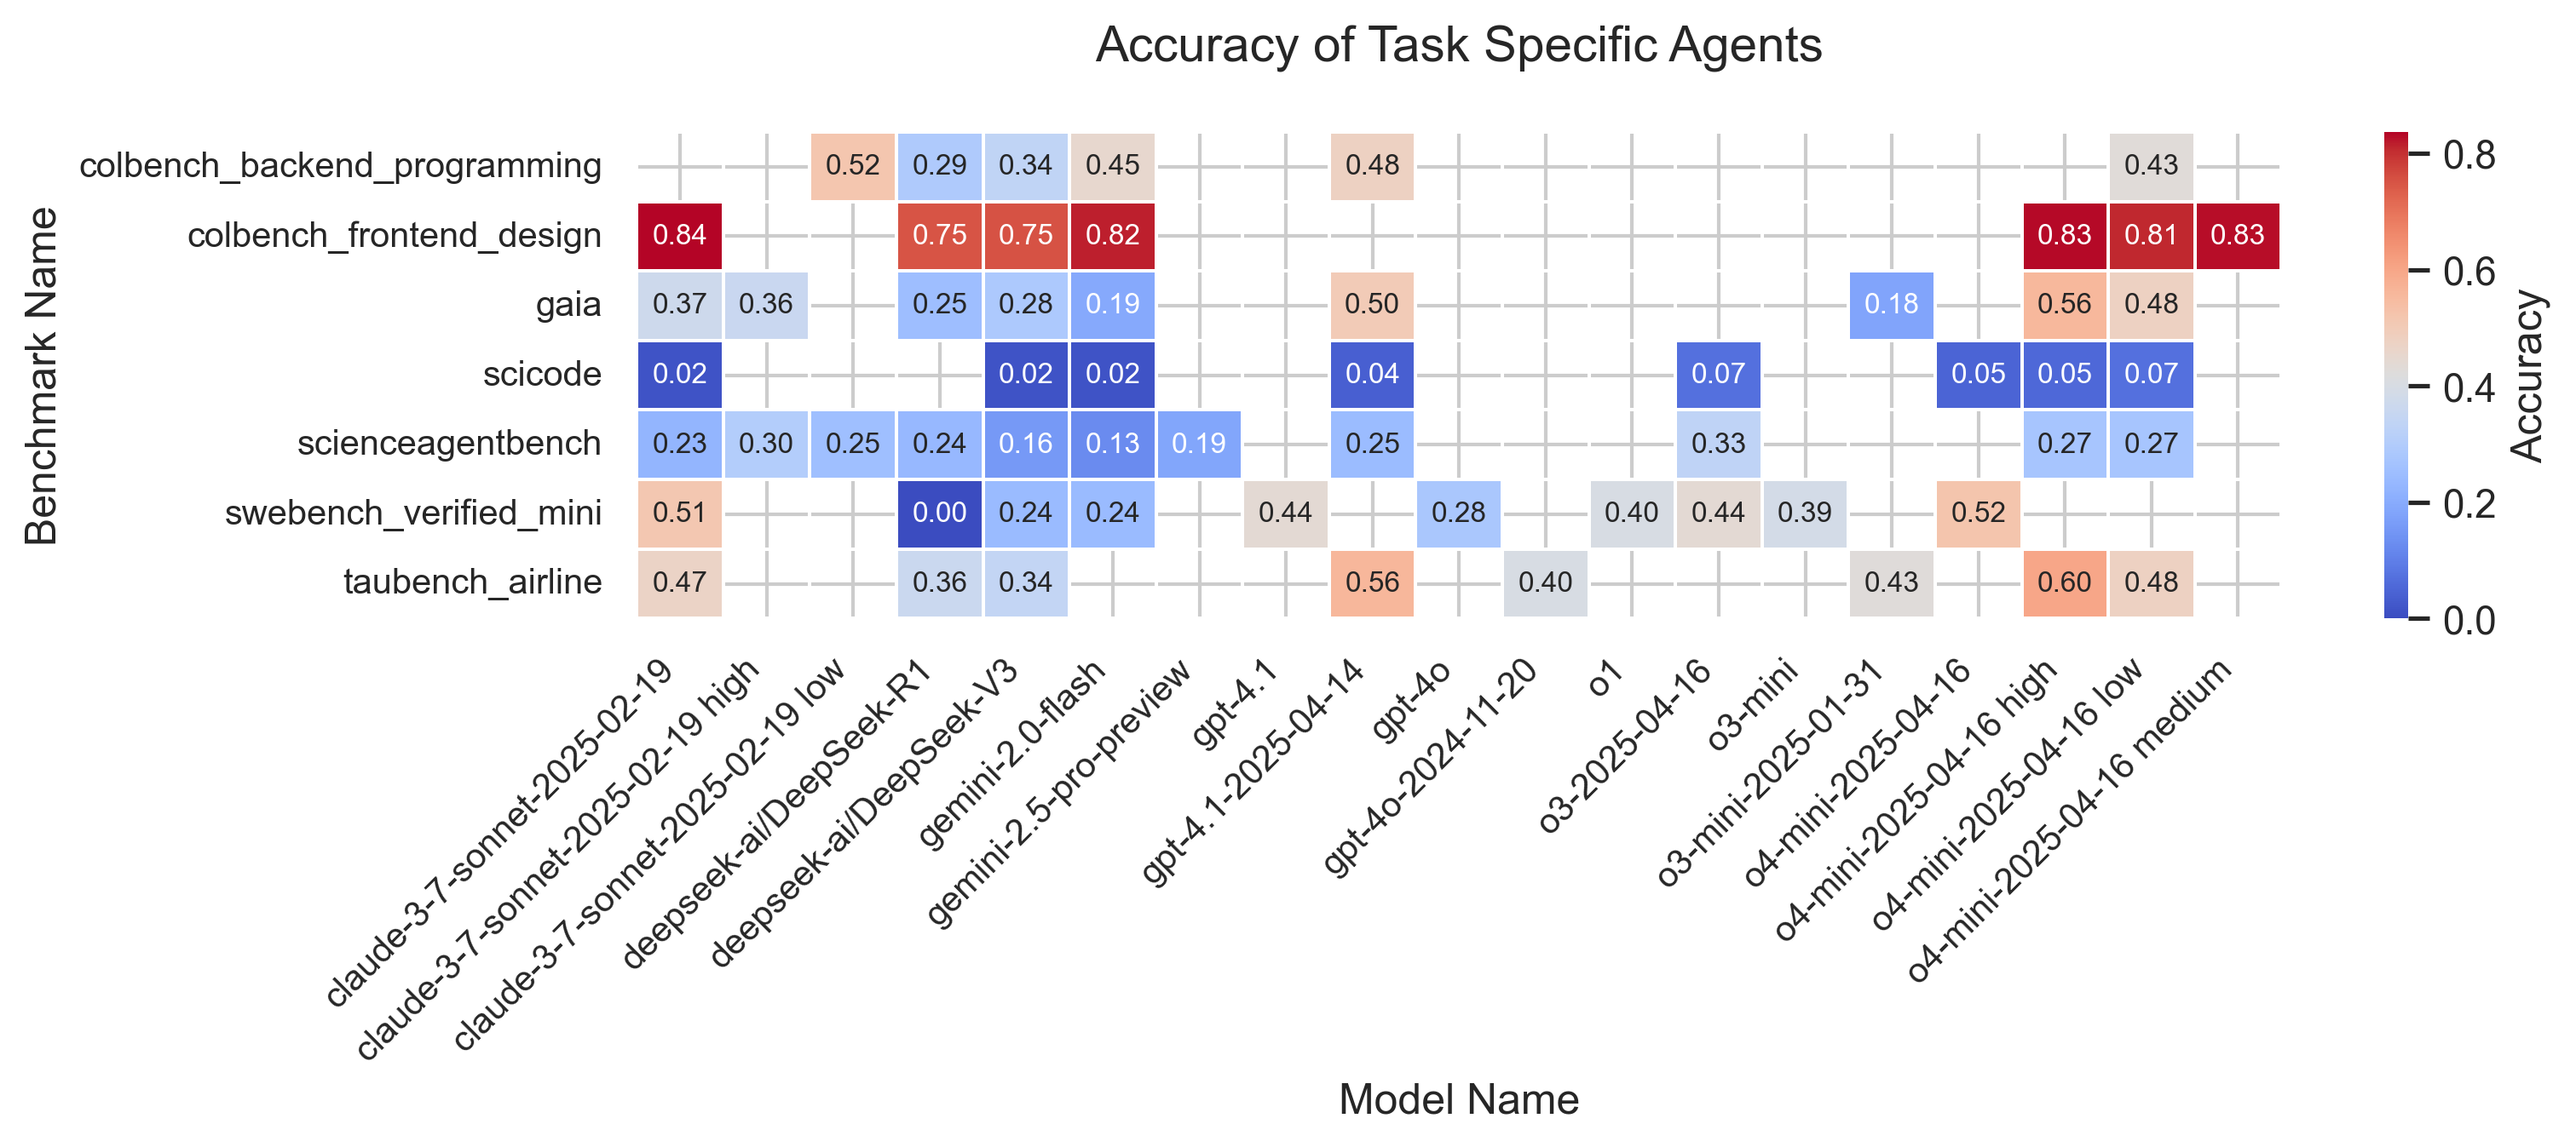
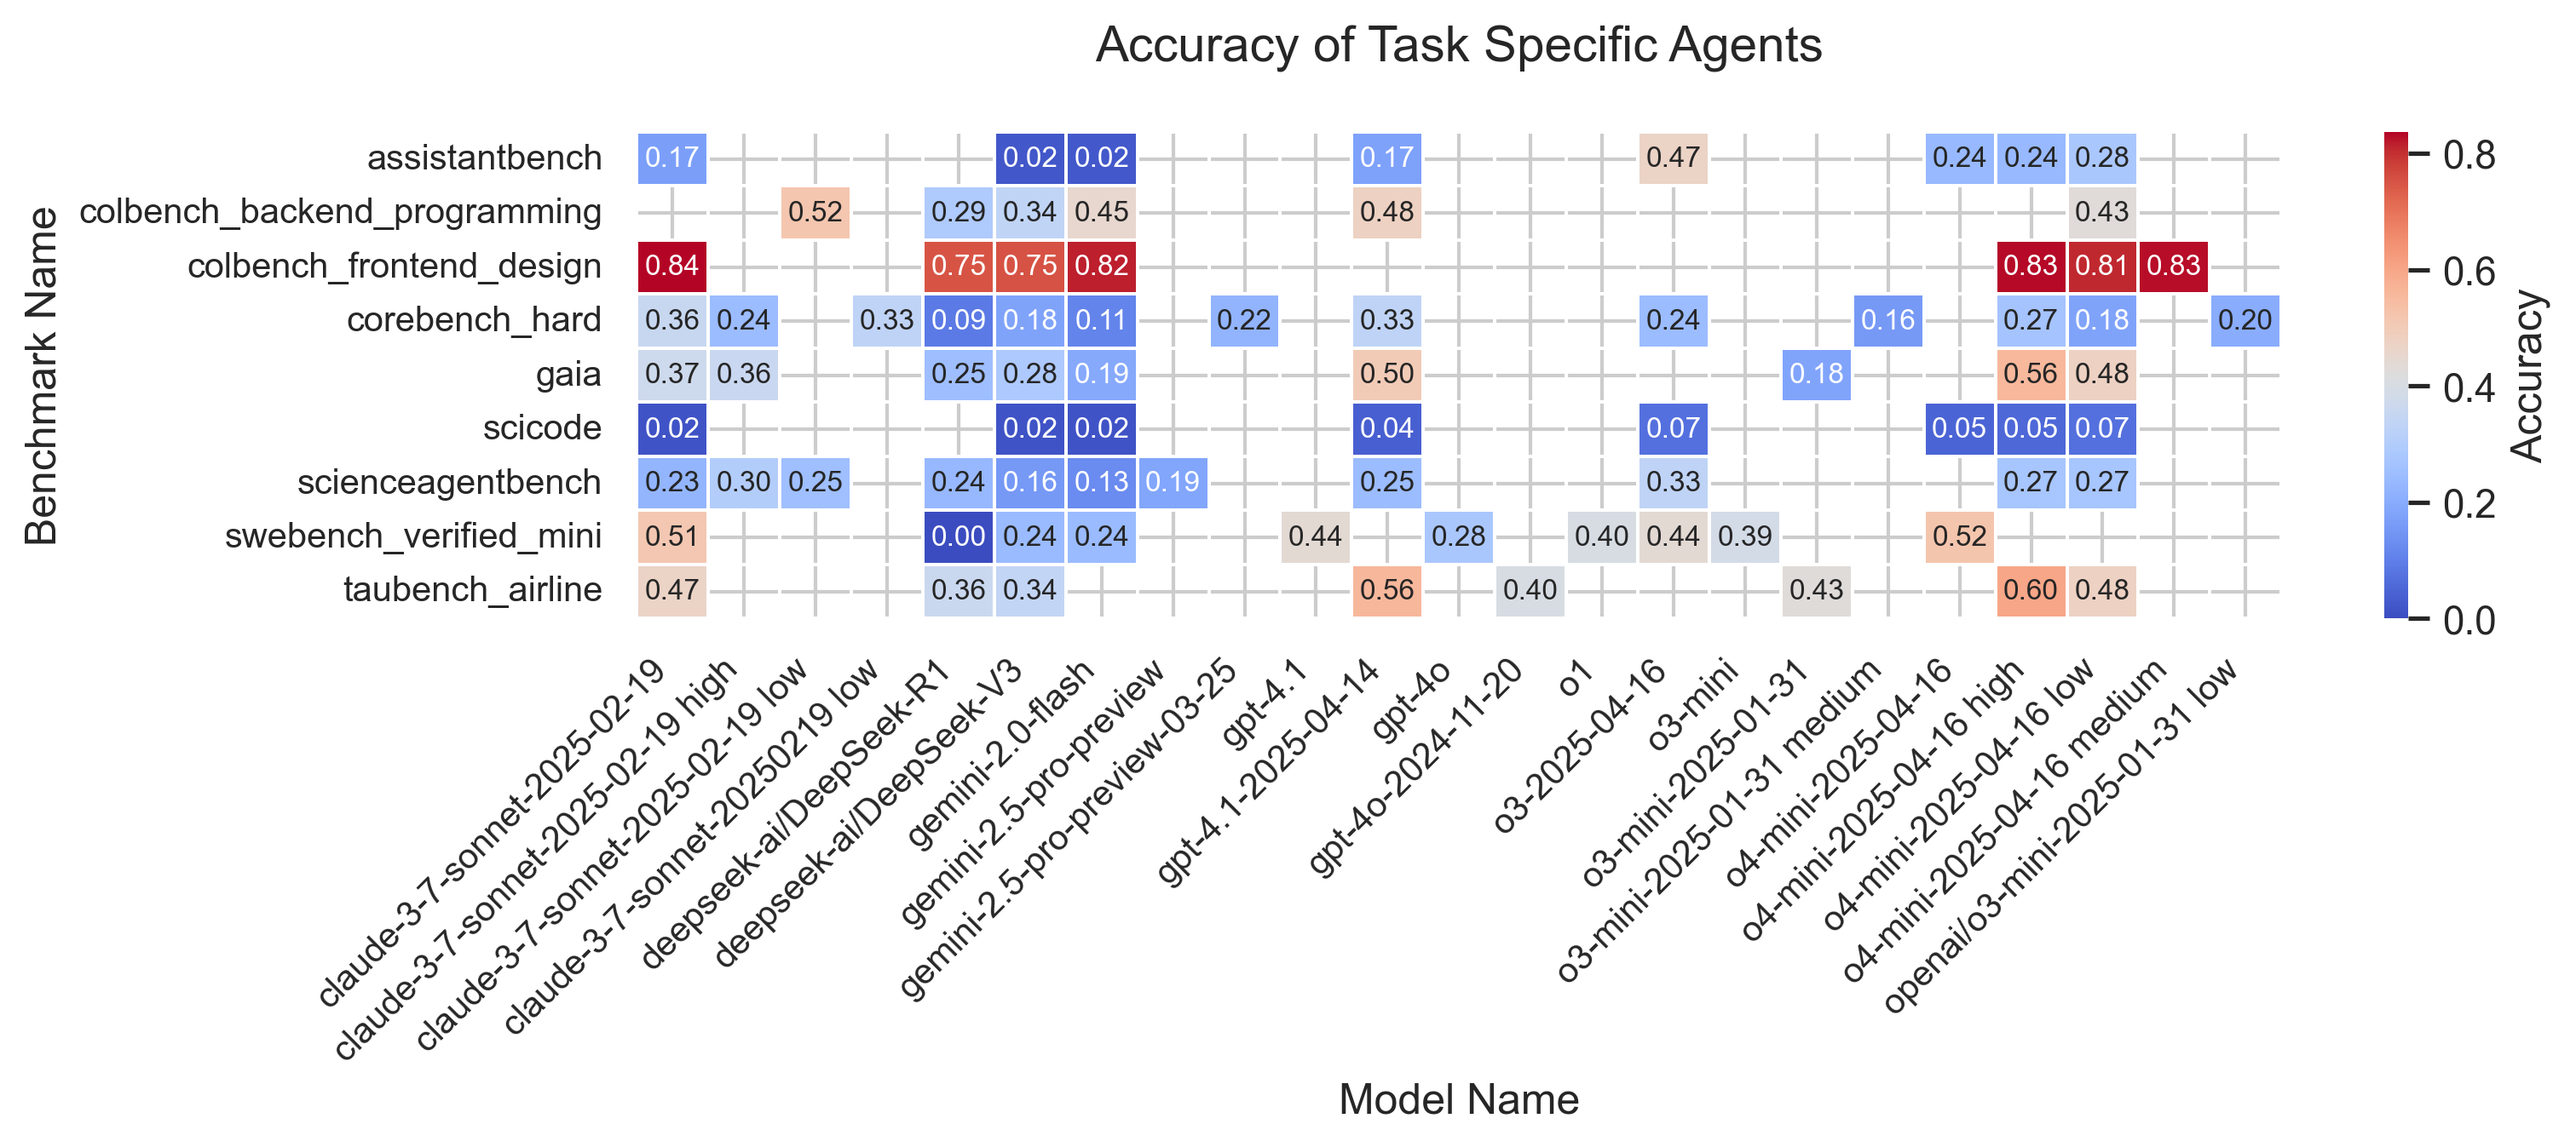
updating heatmaps

diff --git a/src/dataloaders/abstract.py b/src/dataloaders/abstract.py
@@ -42,15 +42,25 @@ class DataLoader(ABC):
         agent_name = self.config['agent_name']
         # print(agent_name)
         self.config['agent_name'] = AGENT_NAME_MAP.get(agent_name, agent_name)
-        if (agent_name != 'CORE-Agent') and (agent_name != 'coreagent'):
+        if (self.config['agent_name'] != 'CORE-Agent'):
             self.config['agent_name_short'] = self.config['agent_name'].split(' (')[-2]
         else:
             self.config['agent_name_short'] = self.config['agent_name']
 
-        model_name_short = (self.config['agent_name'].split(' (')[-1].split(')')[0])
-        self.config['model_name_short'] = MODEL_NAME_MAP.get(model_name_short, model_name_short)
-        # print(self.config['agent_name'], " | ", self.config['agent_name_short'], " | ", self.config['model_name_short'])
-
+        if (self.config['agent_name'] == 'CORE-Agent'):
+            model_name_short = self.config['agent_args']['model_name']
+            if 'reasoning_effort' in self.config['agent_args']:
+                reasoning_effort = self.config['agent_args']['reasoning_effort']
+                self.config['model_name_short'] = model_name_short + ' ' + reasoning_effort
+                model_name_short = self.config['model_name_short']
+            else:   
+                self.config['model_name_short'] = model_name_short
+            self.config['model_name_short'] = MODEL_NAME_MAP.get(model_name_short, model_name_short)
+            # print(self.config['agent_name'], self.config['agent_args']['model_name'], " | ", self.config['agent_name_short'], " | ", self.config['model_name_short'])
+        else:
+            model_name_short = (self.config['agent_name'].split(' (')[-1].split(')')[0])
+            self.config['model_name_short'] = MODEL_NAME_MAP.get(model_name_short, model_name_short)
+            # print(self.config['agent_name'], " | ", self.config['agent_name_short'], " | ", self.config['model_name_short'])
 
     def _load_data(self):
         with open(self.data_path, 'r') as f:

diff --git a/visualizations.py b/visualizations.py
@@ -106,14 +106,14 @@ def create_heatmaps(df, agent_scaffold, metric, title, x_label, y_label, legend_
         df = df[df['agent_name_short'] == generalist_scaffold]
     # only keep rows with task specific agents
     elif agent_scaffold == 'task_specific':
-        task_specific_scaffolds = ['Col-bench Text', 'HF Open Deep Research', 'Scicode Tool Calling Agent', 'Scicode Zero Shot Agent', 'SAB Example Agent', 'SWE-Agent', 'TAU-bench FewShot', 'USACO Episodic + Semantic']
+        task_specific_scaffolds = ['Col-bench Text', 'HF Open Deep Research', 'Scicode Tool Calling Agent', 'Scicode Zero Shot Agent', 'SAB Example Agent', 'SWE-Agent', 'TAU-bench FewShot', 'USACO Episodic + Semantic', 'CORE-Agent', 'Assistantbench Browser Agent']
         df = df[df['agent_name_short'].isin(task_specific_scaffolds)]
     else:
         print("Error: scaffold type not found")
         return
     
     duplicates = df[df.duplicated(subset=['benchmark_name', 'model_name_short'], keep=False)]
-    print(duplicates)
+   # print(duplicates)
     
     df_pivot = df.pivot_table(columns='model_name_short', index='benchmark_name', values=metric, aggfunc='mean')
     
@@ -127,7 +127,7 @@ def create_heatmaps(df, agent_scaffold, metric, title, x_label, y_label, legend_
     # Create the figure with appropriate size (only create one figure)
     plt.figure(figsize=(11, 5))
     
-    # Create the main heatmap (without averages)
+    # Create the main heatmap 
     main_data = df_pivot.iloc[:-1, :-1]
     ax = sns.heatmap(
         data=main_data,

diff --git a/src/dataloaders/config.py b/src/dataloaders/config.py
@@ -7,6 +7,11 @@ MODEL_NAME_MAP = {
     "o3-mini-2025-01-31 high": "o3-mini-2025-01-31",
     "claude-3-7-sonnet-20250219": "claude-3-7-sonnet-2025-02-19",
     "claude-3-7-sonnet-20250219 high": "claude-3-7-sonnet-2025-02-19 high",
+    "together_ai/deepseek-ai/DeepSeek-R1": "deepseek-ai/DeepSeek-R1",
+    "openai/o3-mini-2025-01-31": "o3-mini-2025-01-31",
+    "gemini/gemini-2.5-pro-preview-03-25": "gemini-2.5-pro-preview-03-25",
+    "together_ai/deepseek-ai/DeepSeek-V3": "deepseek-ai/DeepSeek-V3",
+    "gemini/gemini-2.0-flash": "gemini-2.0-flash"
 }
 
 AGENT_NAME_MAP = {
@@ -62,7 +67,8 @@ AGENT_NAME_MAP = {
     "Hal Generalist Agent (gpt-4.1-2025-04-14)": "HAL Generalist Agent (gpt-4.1-2025-04-14)",
     "Hal Generalist Agent (o4-mini-2025-04-16 low)": "HAL Generalist Agent (o4-mini-2025-04-16 low)",
     "Hal Generalist Agent (o4-mini-2025-04-16)": "HAL Generalist Agent (o4-mini-2025-04-16)",
-    "Hal Generalist Agent (o4-mini-2025-04-16 high)": "HAL Generalist Agent (o4-mini-2025-04-16 high)"
+    "Hal Generalist Agent (o4-mini-2025-04-16 high)": "HAL Generalist Agent (o4-mini-2025-04-16 high)",
+    "coreagent": "CORE-Agent"
 }
 
 
